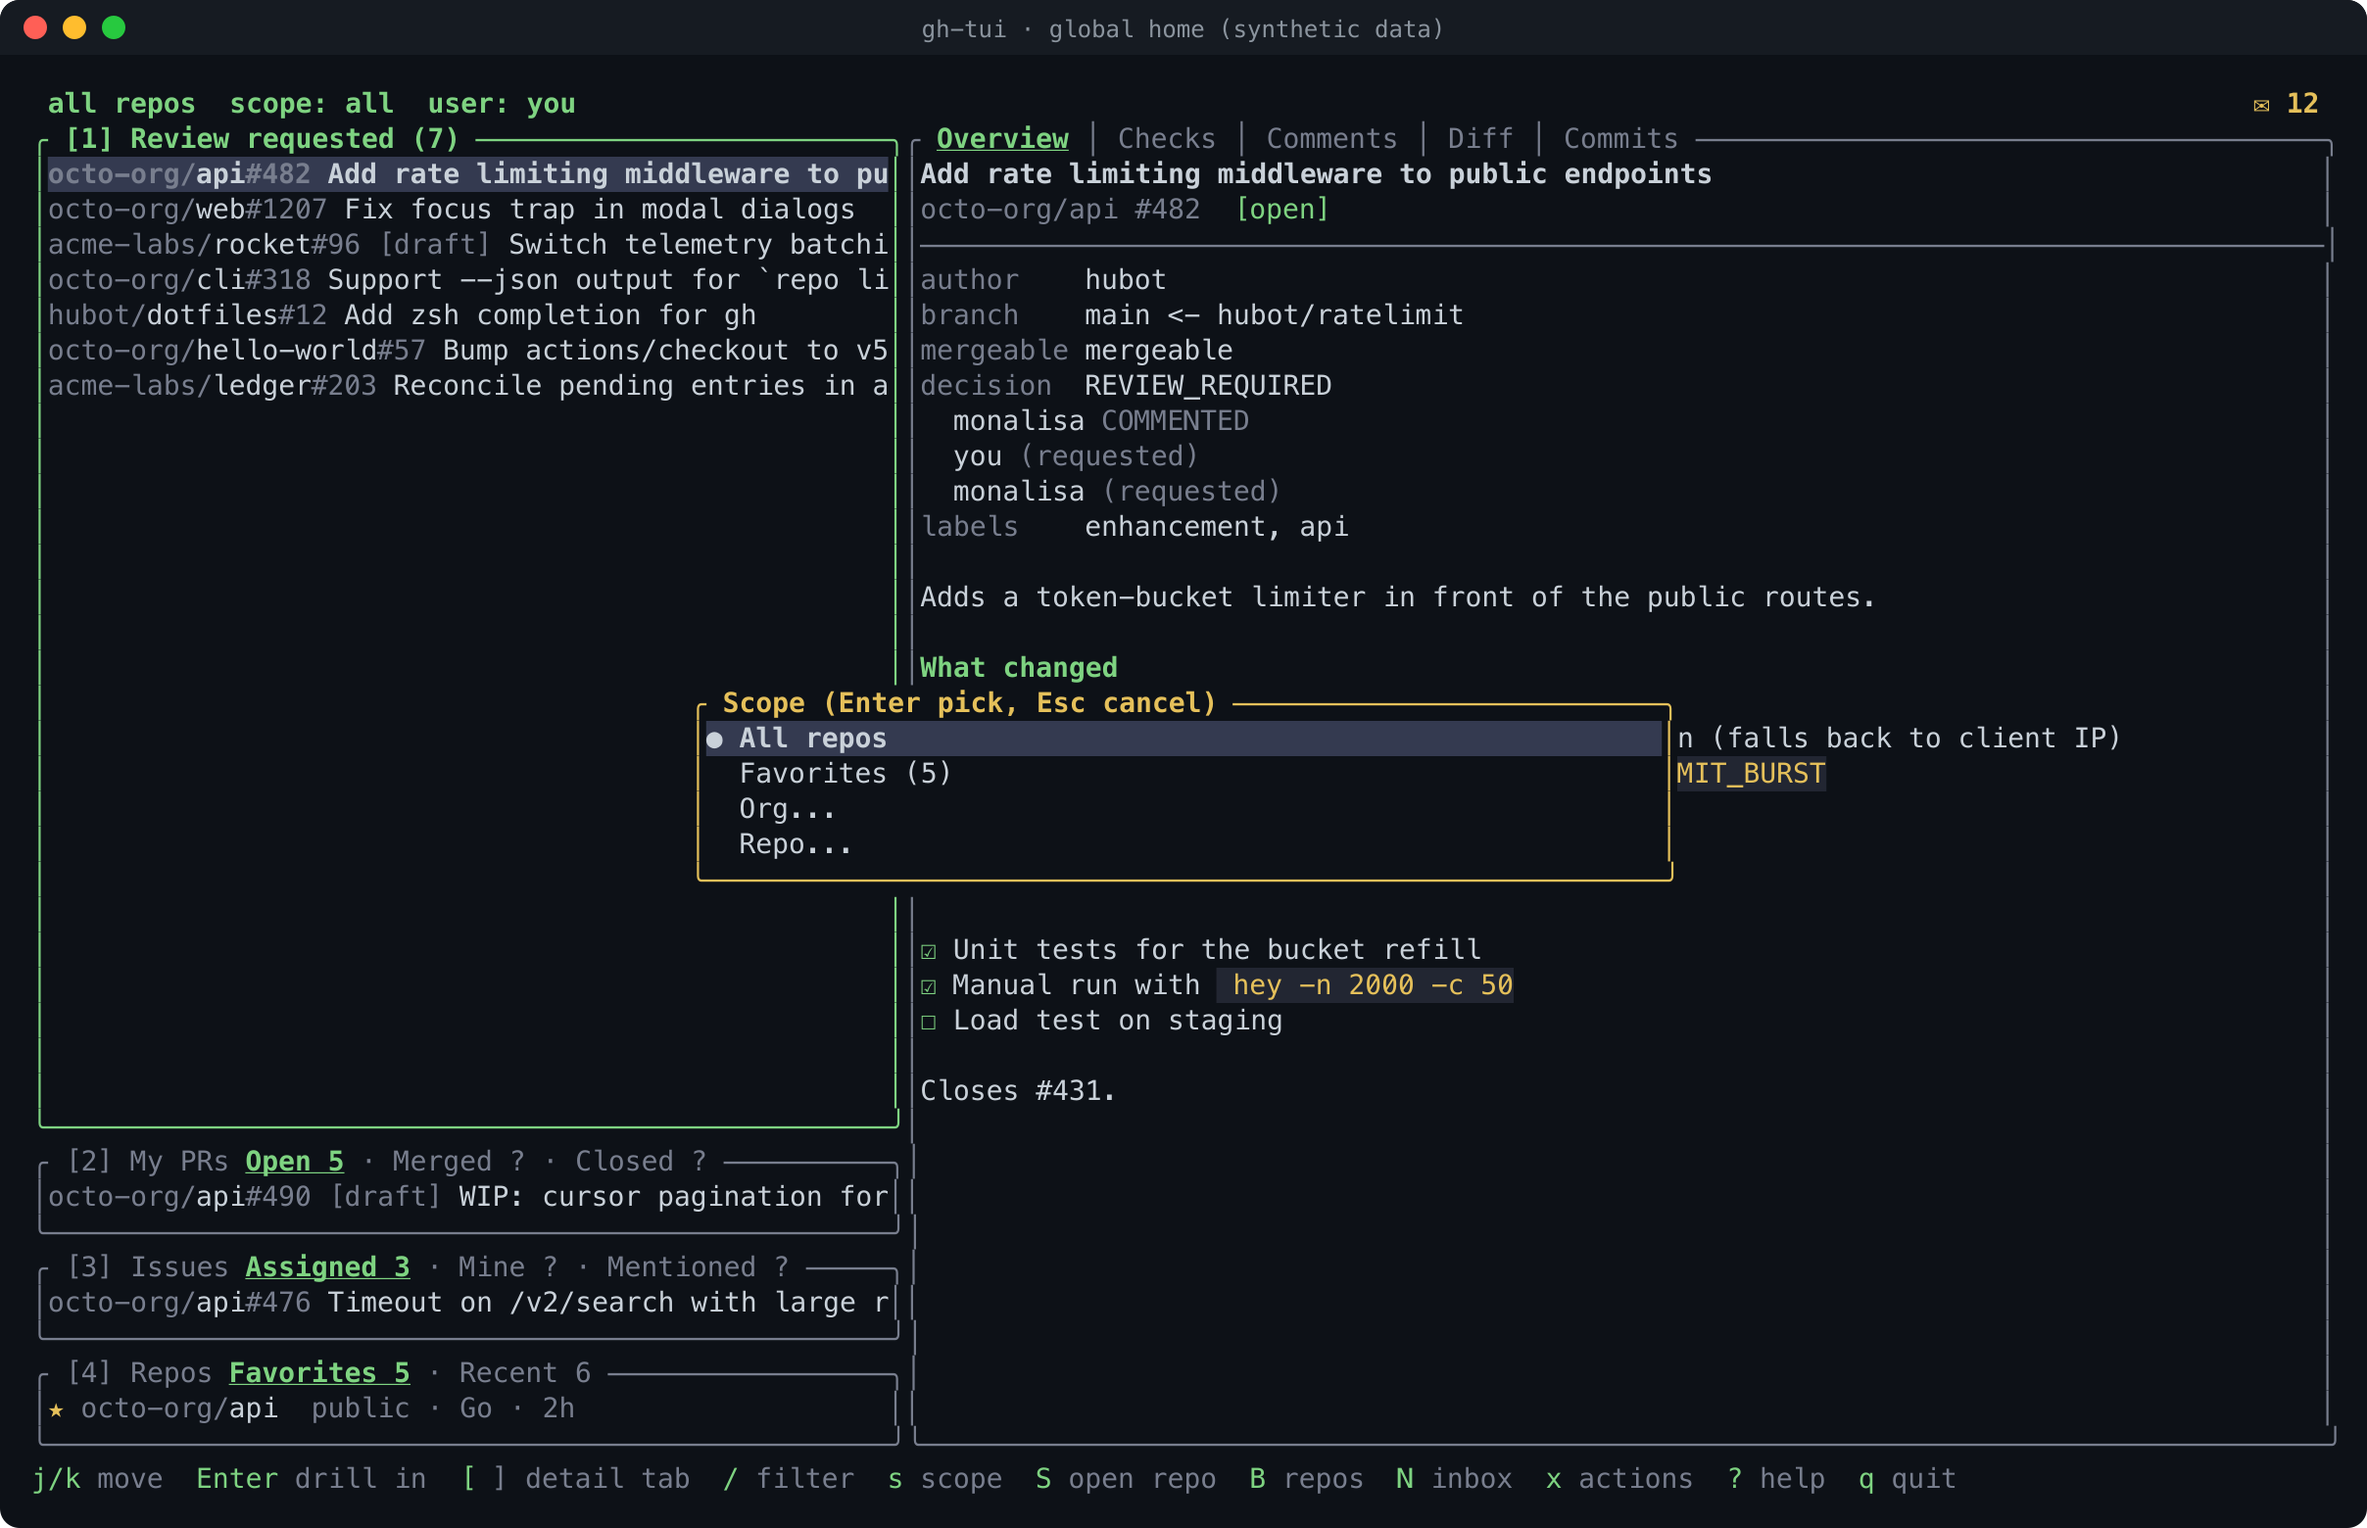
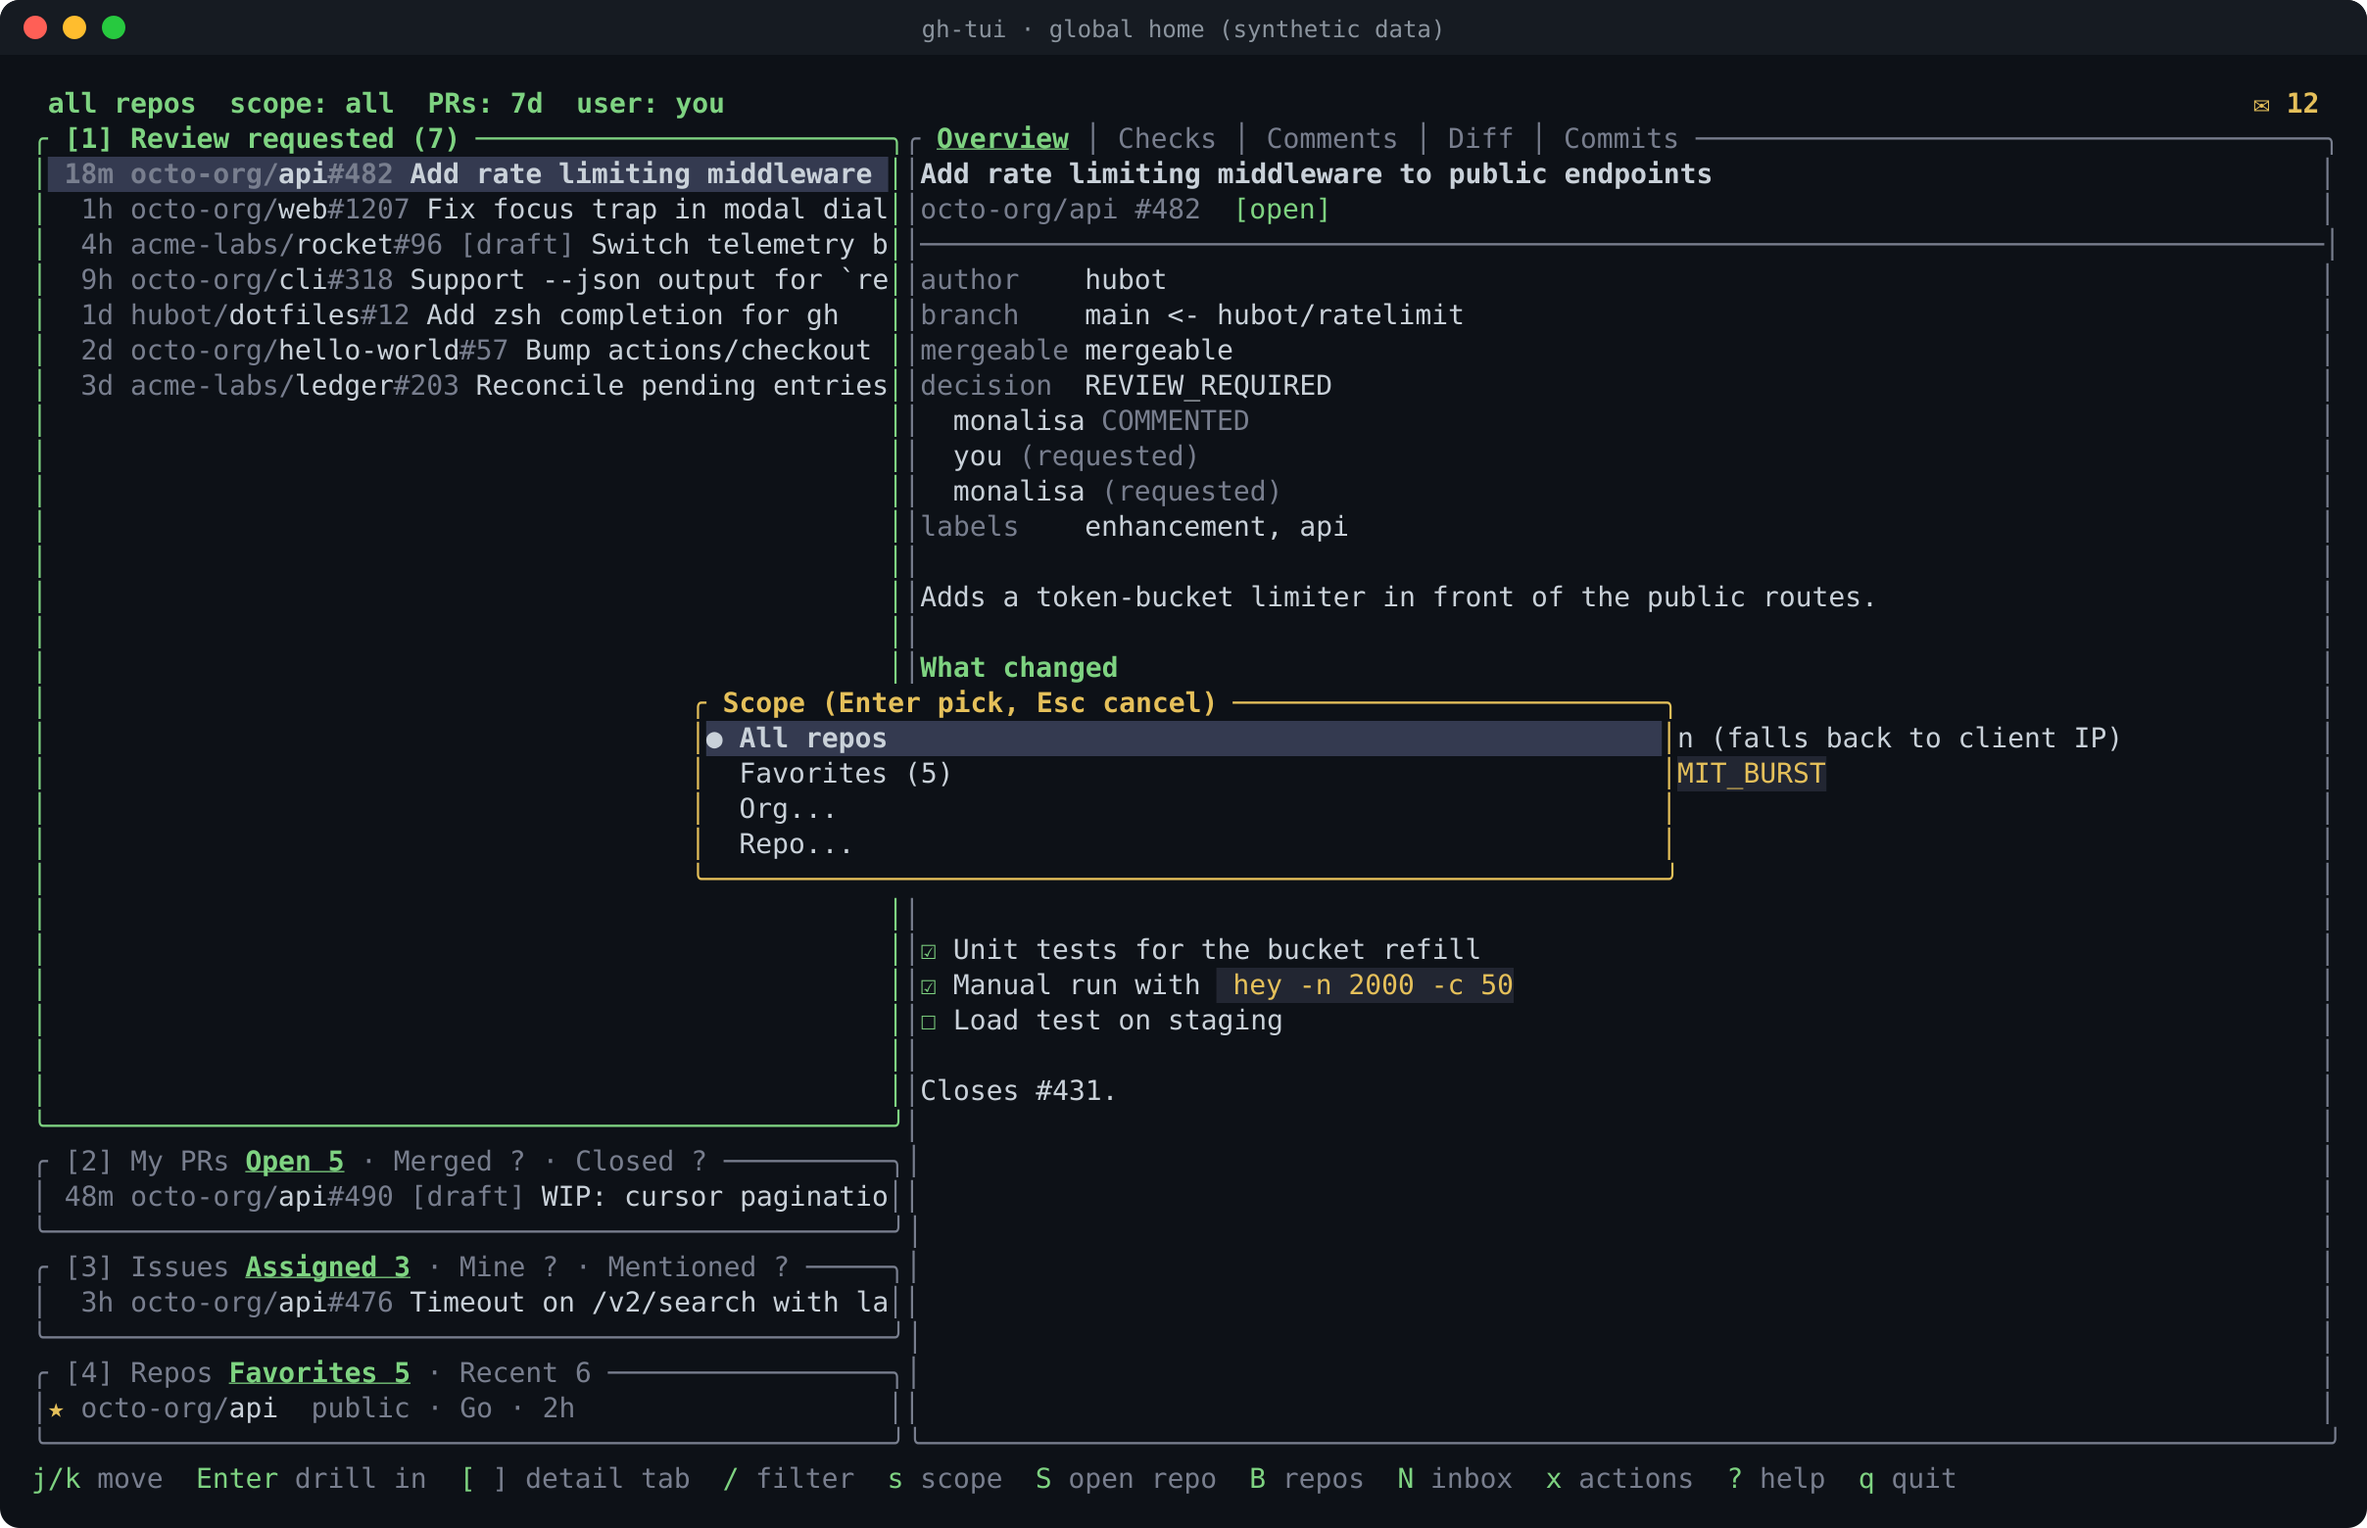
Refresh the global-home screenshots; add the grouped list and the ? menu; list g and W in the menu
- Regenerated 11-17 offline from the synthetic fake gh (they now show ages and the PR window), and
  added 18-grouped and 19-help. The old help shot, taken against real repos, is replaced by 19-help
  so it no longer depends on network access.
- The ? menu was missing g and W: the edit adding them in the grouping change never applied. They
  are listed now, with a test that every key the global home adds is in the menu.
- BACKLOG: drop the stale note about the old 8-panel README (refreshed earlier).

Claude-Session: https://claude.ai/code/session_014MxYN1oJN5yDmoMxzHeDCY

diff --git a/scripts/screenshots.py b/scripts/screenshots.py
@@ -4,7 +4,7 @@
 Usage: GH_TUI_SHOT_BLOCKLIST=a,b scripts/screenshots.py [--fake] [shot ...]   (needs `pip install pyte`,
 `cargo build --release`; PNG conversion uses rsvg-convert if present). Read-only: never confirms an action.
 The header login becomes `you`, the unread badge is blanked, and a shot is aborted if a blocklisted string shows.
-`--fake` renders the global-home shots (11-17) offline against scripts/fake-gh, a `gh` stub with synthetic data,
+`--fake` renders the global-home shots (11-19, incl. the `?` menu) offline against scripts/fake-gh, a `gh` stub with synthetic data,
 in a throwaway HOME/config/state; your own account is never read.
 """
 import fcntl, html, os, pty, re, select, shutil, signal, struct, subprocess, sys, tempfile, termios, time
@@ -211,8 +211,6 @@ def s_menu(t):
     pr(t, [5]); t.send('x', 1)
 def s_confirm(t):  # picks Approve and stops at the confirm popup; 'y' is never sent
     pr(t, [5]); t.send('x', 1); t.send('j', .5); t.send('\r', 1); t.send('\x13', 1)  # Ctrl-S on the comment popup opens the confirm
-def s_help(t):
-    pr(t, [5]); t.send('?', 1)
 def s_compact(t):
     pr(t, [])  # the narrow layout moves the detail pane, so the row search in pr() would never match
     for _ in range(120):
@@ -233,7 +231,6 @@ SHOTS = {  # name -> (repo, steps, (cols, rows))
     '7-releases': (GP, s_releases, (140, 40)),
     '8-menu': (GP, s_menu, (140, 40)),
     '8b-confirm': (GP, s_confirm, (140, 40)),
-    '9-help': (GP, s_help, (140, 40)),
     '10-compact': (GP, s_compact, (80, 24)),
 }
 
@@ -266,6 +263,8 @@ def g_scope(t): g_home(t); t.send('s', 1)
 def g_repos(t): g_home(t); t.send('4', 2); t.send('j', .8)
 def g_browser(t): t.send('B', 3); t.send('\r', .8); t.send('.', 1)  # Enter leaves the search box; `.` shows the hidden repos
 def g_inbox(t): t.send('N', 3)
+def g_grouped(t): g_home(t); t.send('g', 1)  # g: group the list by PR author
+def g_help(t): g_home(t); t.send('?', 1)  # the keybindings menu over the global home
 
 
 FAKE_SHOTS = {  # name -> (steps, (cols, rows)); synthetic data from scripts/fake-gh
@@ -276,6 +275,8 @@ FAKE_SHOTS = {  # name -> (steps, (cols, rows)); synthetic data from scripts/fak
     '15-repo-browser': (g_browser, (140, 40)),
     '16-inbox': (g_inbox, (140, 40)),
     '17-global-compact': (g_home, (80, 24)),
+    '18-grouped': (g_grouped, (140, 40)),
+    '19-help': (g_help, (140, 40)),
 }
 
 

diff --git a/src/help.rs b/src/help.rs
@@ -102,6 +102,16 @@ pub fn entries(app: &App) -> Vec<Entry> {
     );
     add(
         "Global home",
+        s("g"),
+        "group by author / repo / none (longest wait first)",
+    );
+    add(
+        "Global home",
+        s("W"),
+        "PR window: 24h / 7d / 30d / all (sections search again)",
+    );
+    add(
+        "Global home",
         s("[[sections]]"),
         "your own searches as panels (see docs/configuration.md)",
     );
@@ -235,4 +245,34 @@ pub fn visible<'a>(all: &'a [Entry], filter: &str) -> Vec<&'a Entry> {
             words.iter().all(|w| hay.contains(w))
         })
         .collect()
+}
+
+#[cfg(test)]
+mod tests {
+    use super::*;
+    use crate::theme::{IconSet, Theme};
+
+    #[test]
+    fn every_key_the_global_home_adds_is_in_the_menu() {
+        let a = App::build_start(
+            Some("o/r".into()),
+            true,
+            Theme::new(false, IconSet::Unicode, true),
+            false,
+            crate::config::Config::default(),
+        );
+        let rows = entries(&a);
+        for key in ["s", "S", "H", "g", "W", "[[sections]]"] {
+            assert!(
+                rows.iter()
+                    .any(|e| e.section == "Global home" && e.key == key),
+                "{key} is missing from the Global home section of the ? menu"
+            );
+        }
+        let anywhere = |what: &str| {
+            rows.iter()
+                .any(|e| e.section == "Anywhere" && e.desc.contains(what))
+        };
+        assert!(anywhere("edit the config") && anywhere("command log"));
+    }
 }

diff --git a/README.md b/README.md
@@ -16,7 +16,7 @@ see, gh-tui can see.
 ## Screenshots
 
 Captured from the real binary (`scripts/screenshots.py`) on public repositories: gh-tui itself (its own merged PRs, CI runs
-and v0.1.0 release) and [cli/cli](https://github.com/cli/cli) for the comment thread. The **global home** shots further down
+and v0.1.0 release) and [cli/cli](https://github.com/cli/cli) for the comment thread. The **global home** shots further down (and the keybindings menu)
 use **synthetic data**: the binary runs against a fake `gh` (`scripts/fake-gh`) serving made-up users, orgs, repos, PRs and
 notifications, so nothing of a real account appears.
 
@@ -48,16 +48,13 @@ notifications, so nothing of a real account appears.
 ![Confirm popup](docs/img/8b-confirm.png)
 *Every action is confirmed first and shows the exact `gh` command it will run (only `y` runs it; this one was cancelled).*
 
-![Help](docs/img/9-help.png)
-*`?` lists every key.*
-
 ![Compact layout at 80x24](docs/img/10-compact.png)
 *At 80x24 the panels shrink to short titles and the key hints truncate.*
 
 ### Global home (synthetic data)
 
 ![Global home](docs/img/11-global-home.png)
-*Started outside a repo: **Review requested**, **My PRs**, **Issues** and **Repos** on the left, the selected item's Overview on the right. Rows read `owner/repo#N`.*
+*Started outside a repo: **Review requested**, **My PRs**, **Issues** and **Repos** on the left, the selected item's Overview on the right. Rows read `age owner/repo#N` (the age is the time since the last update); the header shows the scope and the PR window (`PRs: 7d`, `W` cycles it).*
 
 ![Cross-repo diff](docs/img/12-global-diff.png)
 *Diff tab zoomed with `f`, split layout: diffs, checks and comments work on a row from any repo without switching.*
@@ -77,7 +74,13 @@ notifications, so nothing of a real account appears.
 ![Global home at 80x24](docs/img/17-global-compact.png)
 *The global home at 80x24.*
 
-Regenerate with `GH_TUI_SHOT_BLOCKLIST=word,word python3 scripts/screenshots.py` (needs `pyte`, `rsvg-convert` and `cargo build --release`; public repos only; the blocklist aborts a shot if a private string shows). The global-home shots are `python3 scripts/screenshots.py --fake [shot ...]`: offline, synthetic data from [scripts/fake-gh](scripts/fake-gh/README.md), in a throwaway `HOME` and config.
+![Grouped by author](docs/img/18-grouped.png)
+*`g` groups the list by PR author (again: by repo): each heading shows the count and the longest wait, and the group that has waited longest comes first.*
+
+![Keybindings menu](docs/img/19-help.png)
+*`?` opens the keybindings menu: grouped rows with a key column, a cursor, and `/` to filter them.*
+
+Regenerate with `GH_TUI_SHOT_BLOCKLIST=word,word python3 scripts/screenshots.py` (needs `pyte`, `rsvg-convert` and `cargo build --release`; public repos only; the blocklist aborts a shot if a private string shows). The global-home shots (11-19, including the grouped list and the `?` menu) are `python3 scripts/screenshots.py --fake [shot ...]`: offline, synthetic data from [scripts/fake-gh](scripts/fake-gh/README.md), in a throwaway `HOME` and config.
 
 ## Features
 

diff --git a/docs/BACKLOG.md b/docs/BACKLOG.md
@@ -11,7 +11,6 @@
 - Syntax highlighting: after jumping far into a huge diff, scrolling back up through the skipped lines shows them plain.
 - Inbox: `Enter` looks for a PR/issue in the *open* lists; a merged/closed one is opened on GitHub in the browser instead (no in-app view of closed items). Only unread notifications are listed (the API default); 100 at most.
 - Tag detail makes two API calls per selected tag (commit, release); the Tags tab lists 300 at most (`300+`).
-- README's "Diff view" block and screenshots still show the old 8-panel layout until they are regenerated.
 - Tab counts are fetched in full (one list call per hidden tab) unless a fresh copy of that list is in the disk cache, which they now share; a cheaper count endpoint per source could still replace that.
 - The cache identity comes from gh's `hosts.yml` (`user:`) unless `GH_TOKEN` / `GITHUB_TOKEN` (or the enterprise variants) is set: that token overrides what `gh auth login` stored, so gh-tui asks GitHub once at startup (`gh api user`, one REST call) and holds the first load until it answers. If that call fails the app loads without the on-disk cache.
 - API throttling: in-flight `gh` processes for work the user moved past are left to finish (not killed). Counts for search-backed tabs have no cheap source (they show `?` until opened).
